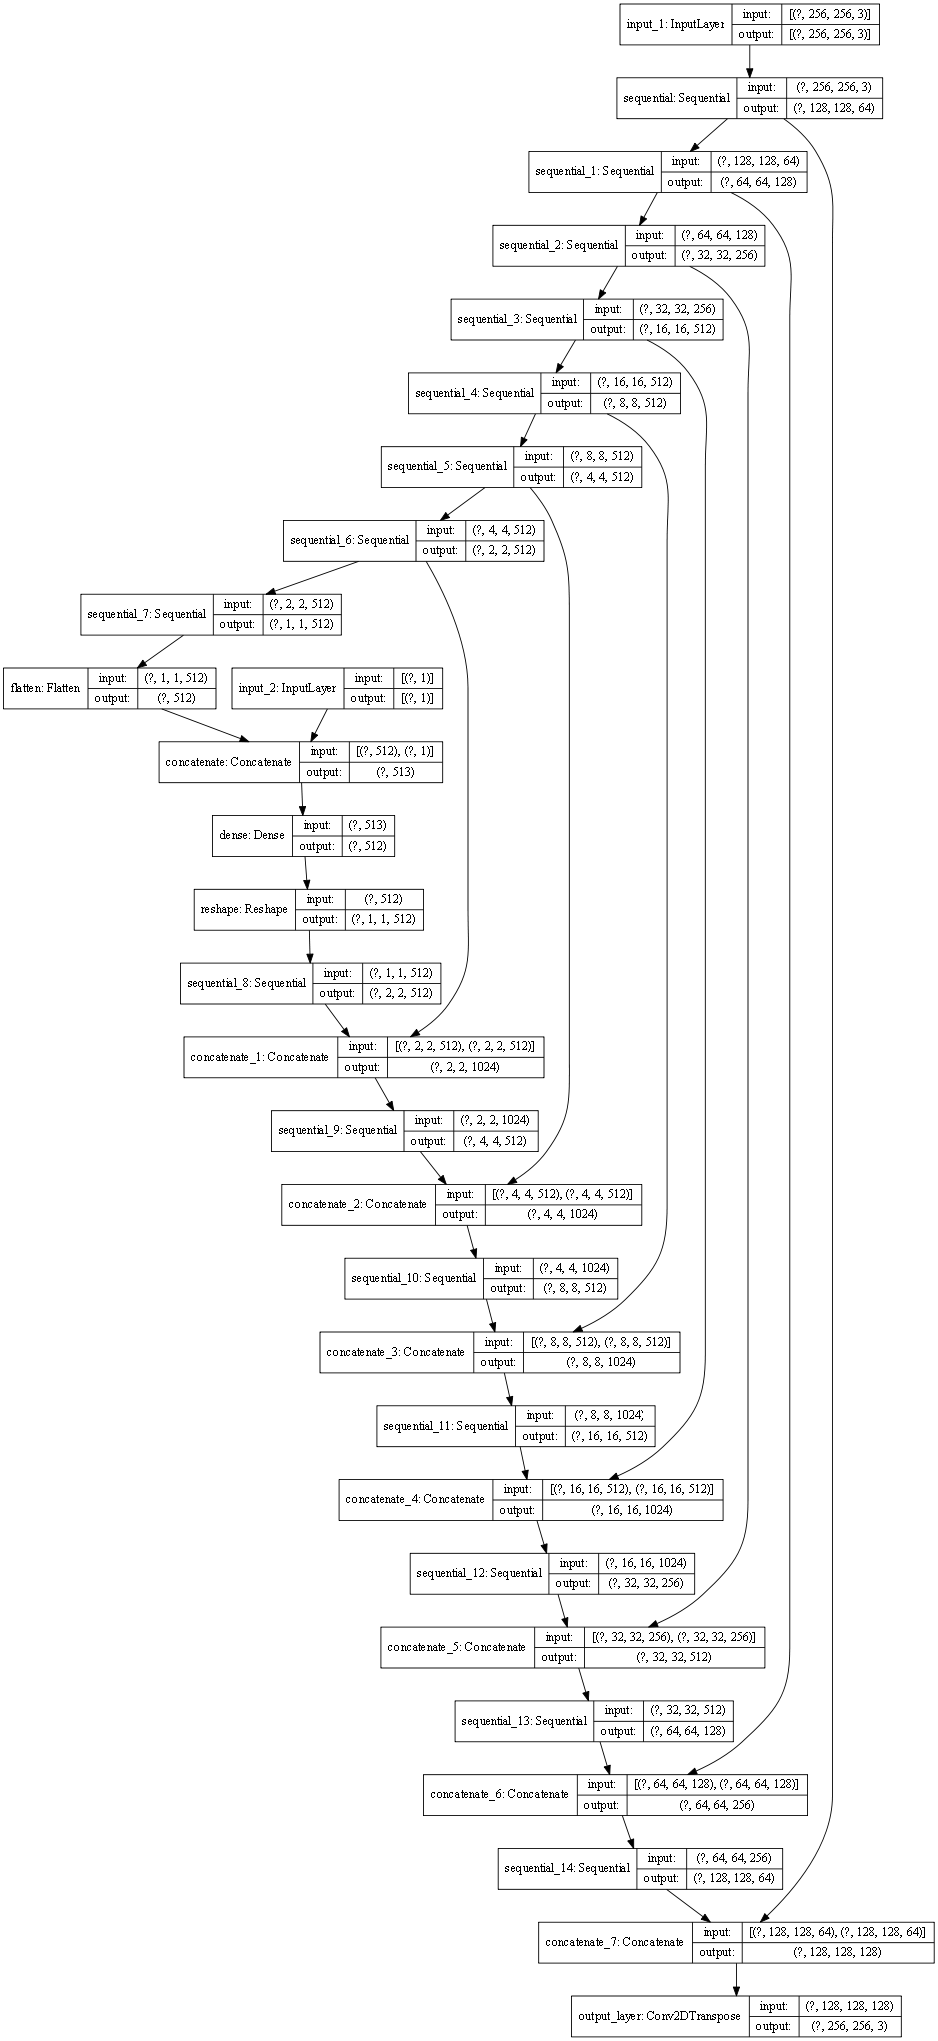
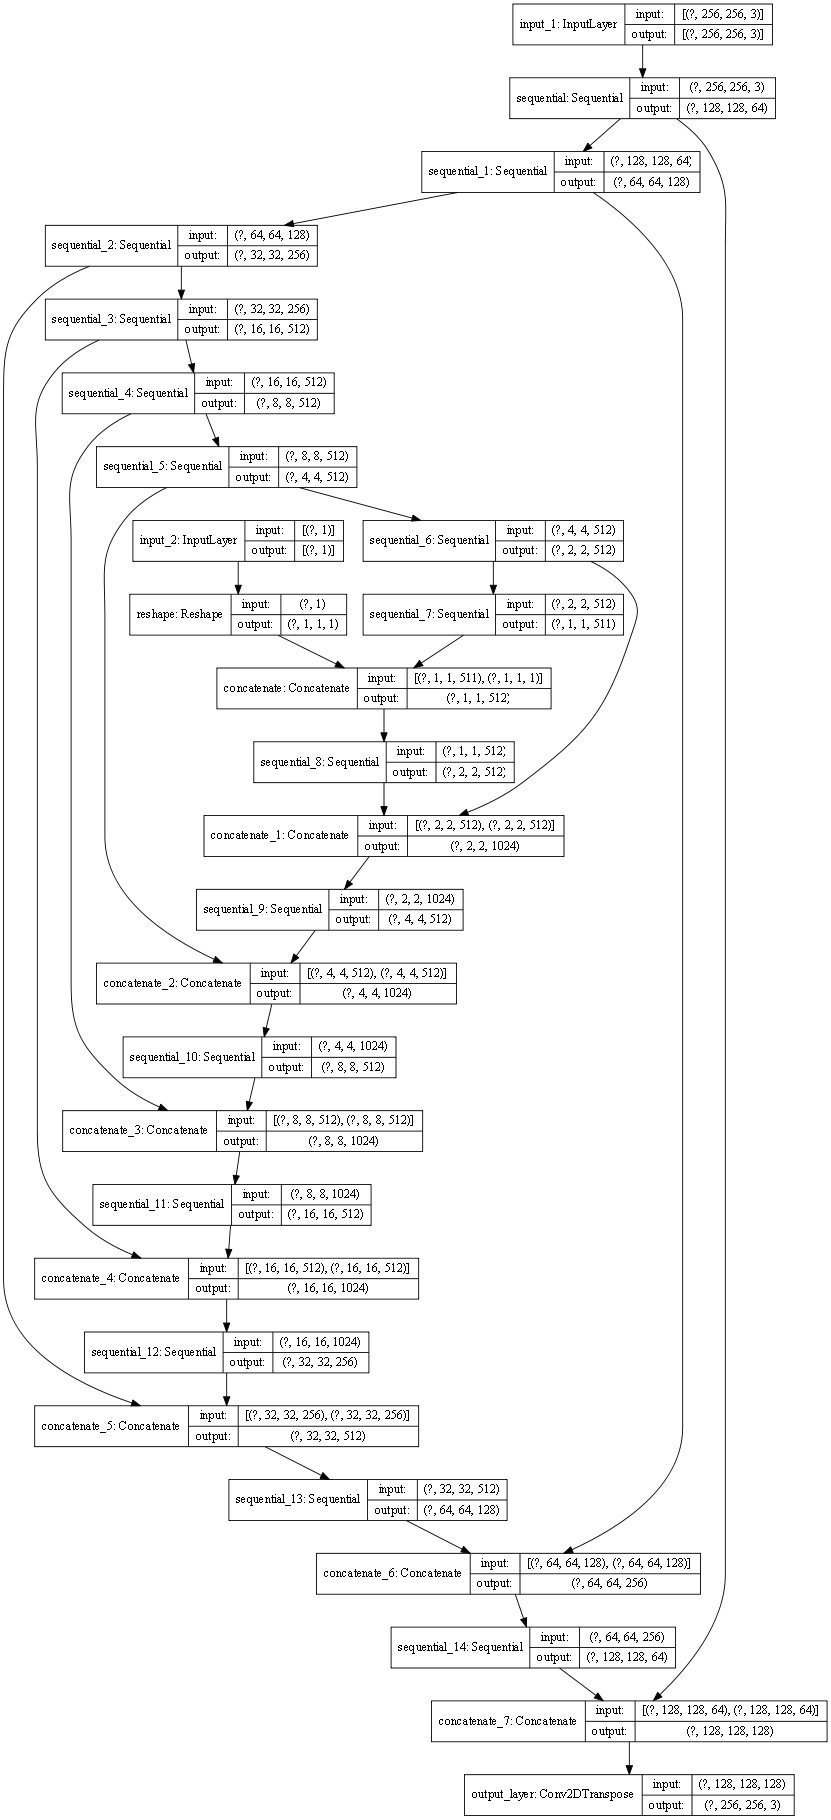
remove old code and build models

diff --git a/lib/models.py b/lib/models.py
@@ -128,14 +128,14 @@ class ModelsBuilder:
 
         # TODO : Delete or keep
         ############ Add Dense Layer - TEST ##########
-        if use_intensity:
-            intensity_input = tf.keras.layers.Input(shape=(1,))
-            inputs = [image_input, intensity_input]
-            x = tf.keras.layers.Flatten()(x)
-            size = x.shape[1]
-            x = tf.keras.layers.Concatenate()([x,intensity_input])
-            x = tf.keras.layers.Dense(size)(x)
-            x = tf.keras.layers.Reshape((1,1,size))(x)
+        # if use_intensity:
+        #     intensity_input = tf.keras.layers.Input(shape=(1,))
+        #     inputs = [image_input, intensity_input]
+        #     x = tf.keras.layers.Flatten()(x)
+        #     size = x.shape[1]
+        #     x = tf.keras.layers.Concatenate()([x,intensity_input])
+        #     x = tf.keras.layers.Dense(size)(x)
+        #     x = tf.keras.layers.Reshape((1,1,size))(x)
         ##############################################
 
         ############ Add Dense Layer - TEST ##########
